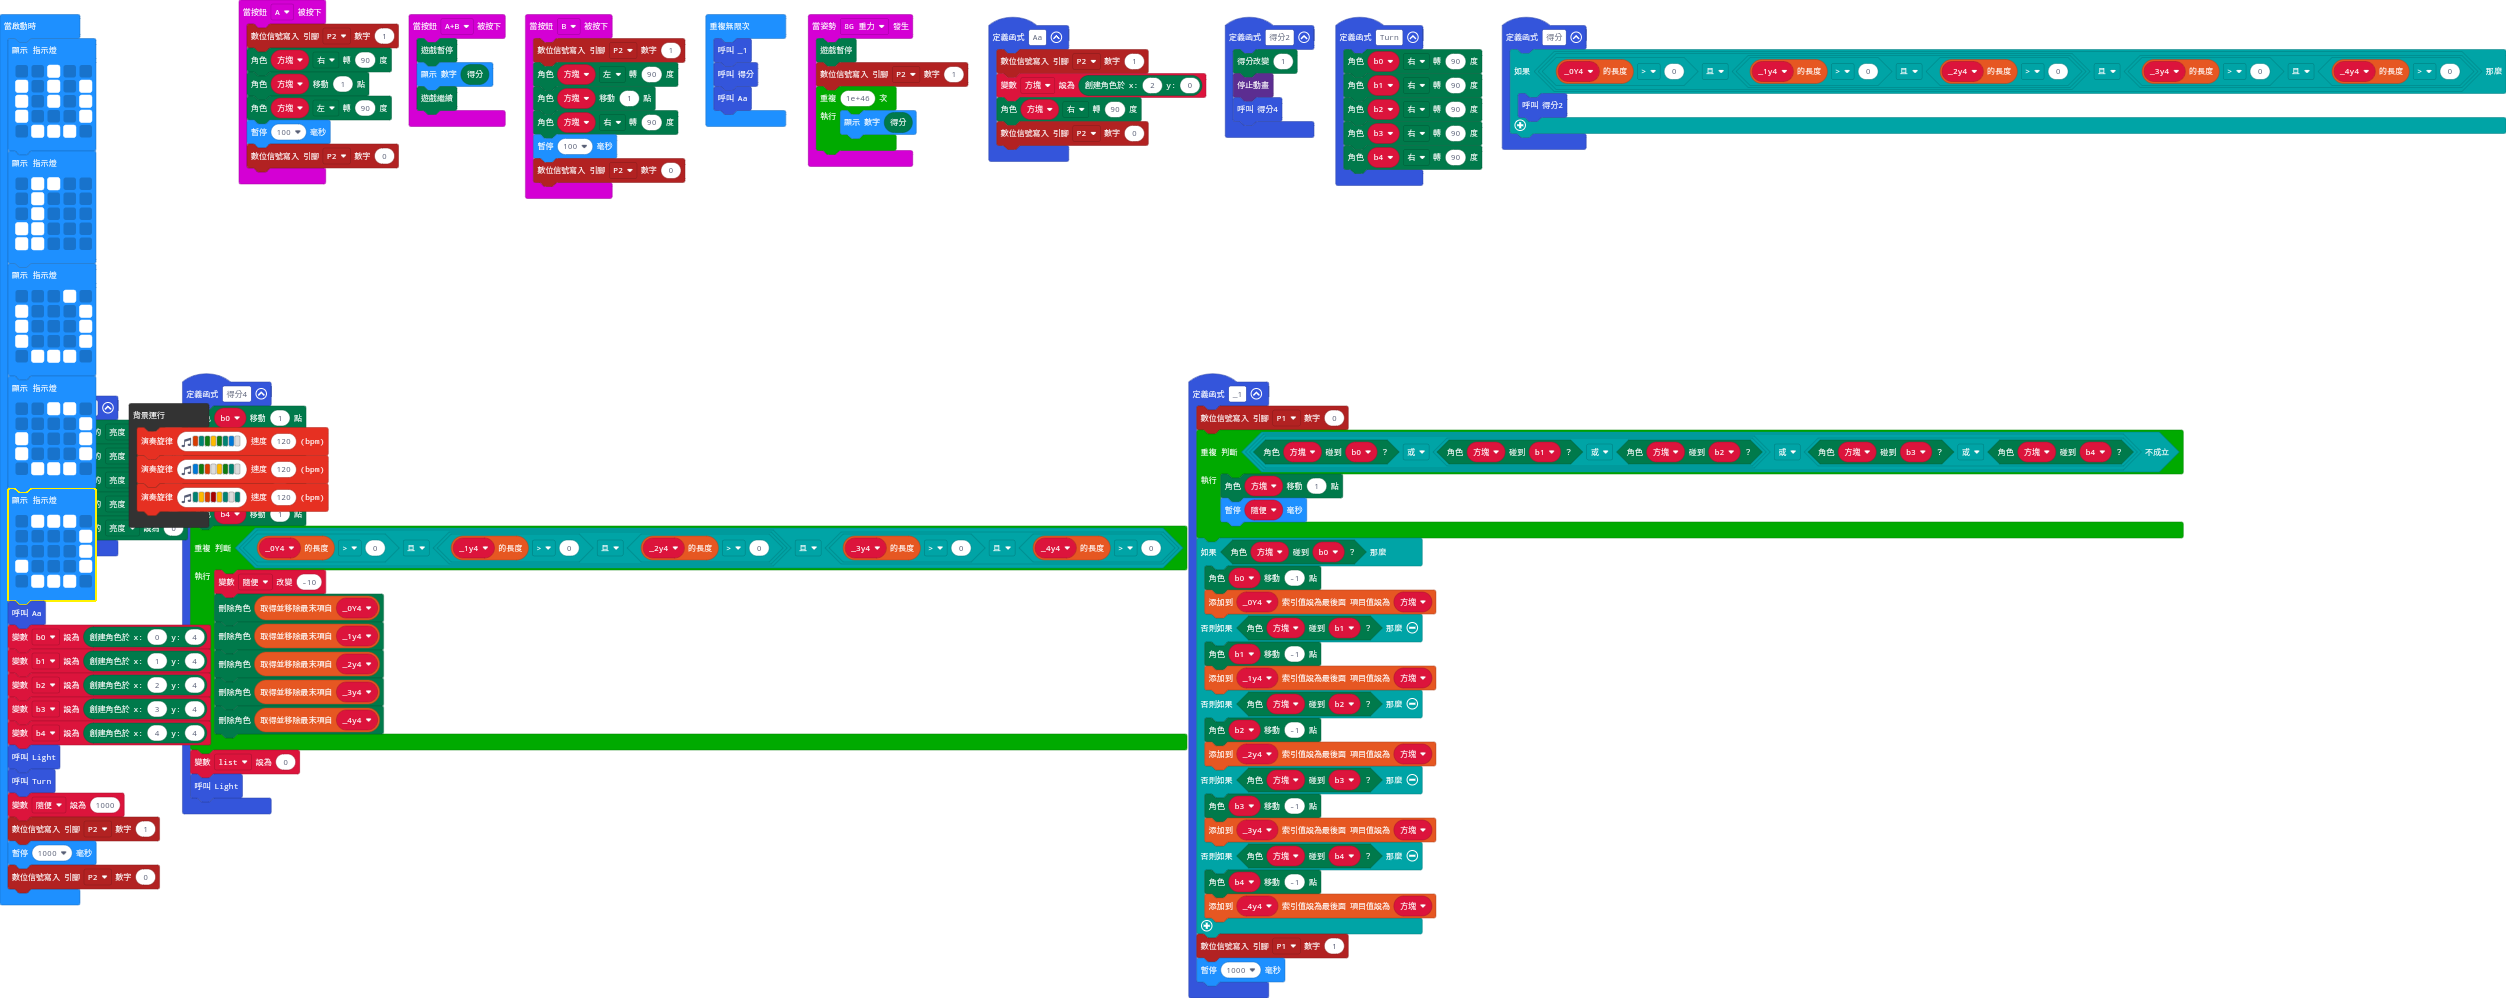
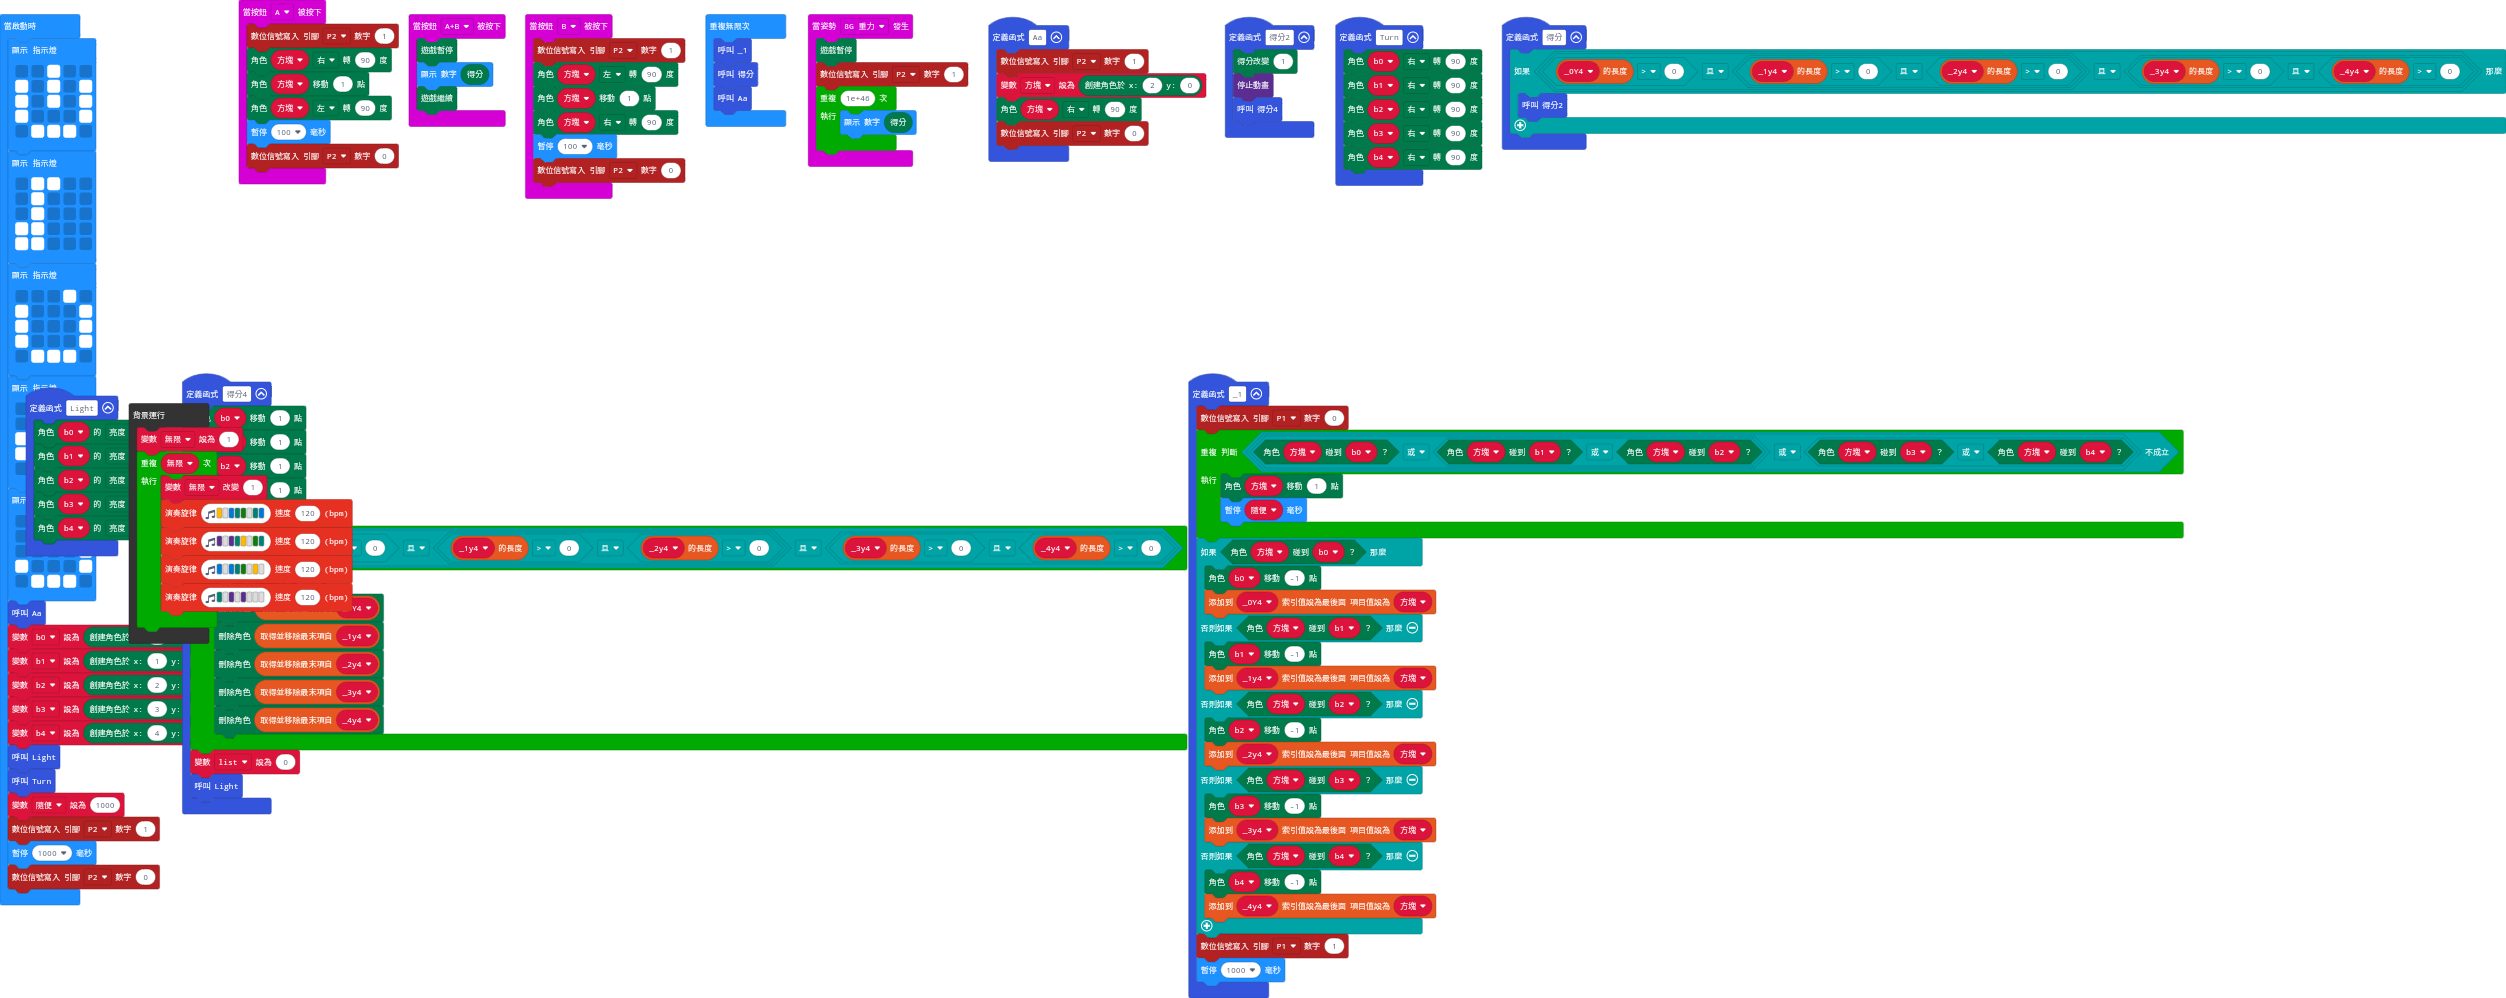
更新 main.blocks, main.ts

Changed region(s): [[0.0, 0.3727, 0.1556, 0.7455]]

diff --git a/main.ts b/main.ts
@@ -98,6 +98,7 @@ input.onGesture(Gesture.EightG, function () {
         basic.showNumber(game.score())
     }
 })
+let 無限 = 0
 let list = 0
 let _4y4: game.LedSprite[] = []
 let _3y4: game.LedSprite[] = []
@@ -164,7 +165,12 @@ basic.forever(function () {
     Aa()
 })
 control.inBackground(function () {
-    music.playMelody("B F G A G F E - ", 120)
-    music.playMelody("E G B - A G F - ", 120)
-    music.playMelody("F A B C5 A F - F ", 120)
+    無限 = 1
+    for (let index = 0; index < 無限; index++) {
+        無限 += 1
+        music.playMelody("A - E F G - F E ", 120)
+        music.playMelody("D - D F A - G F ", 120)
+        music.playMelody("E - E F G - A - ", 120)
+        music.playMelody("F - D - D - - - ", 120)
+    }
 })
